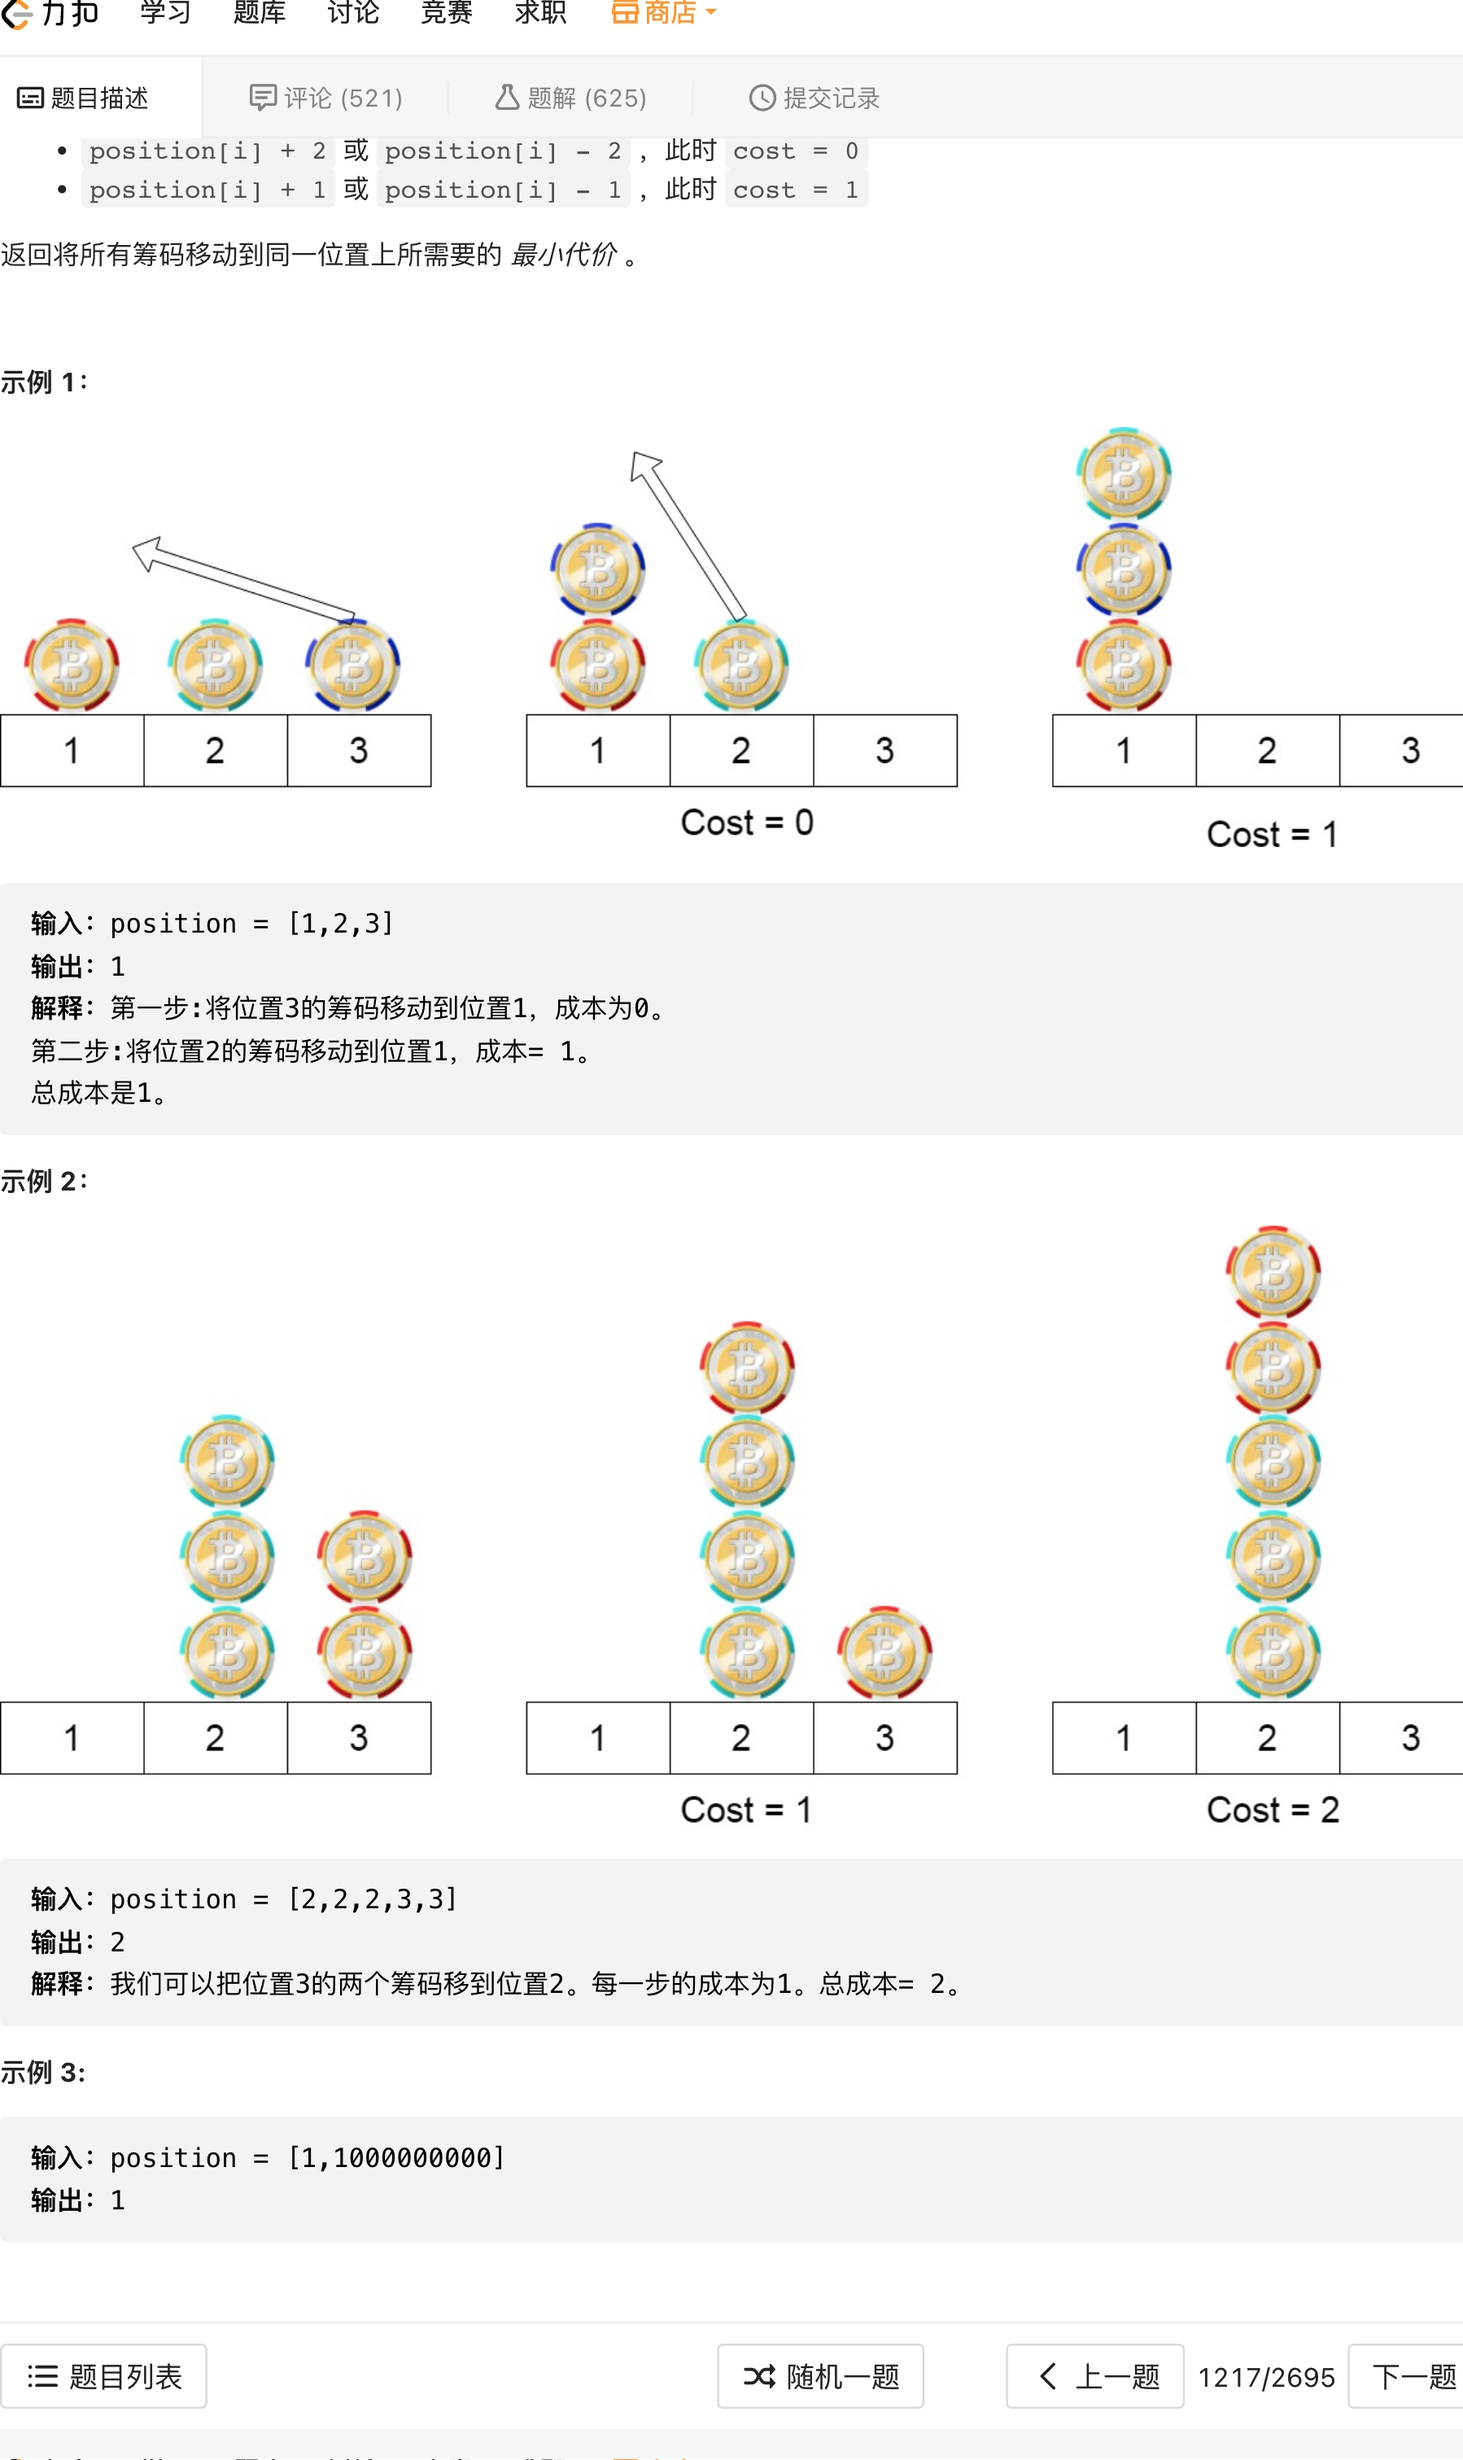
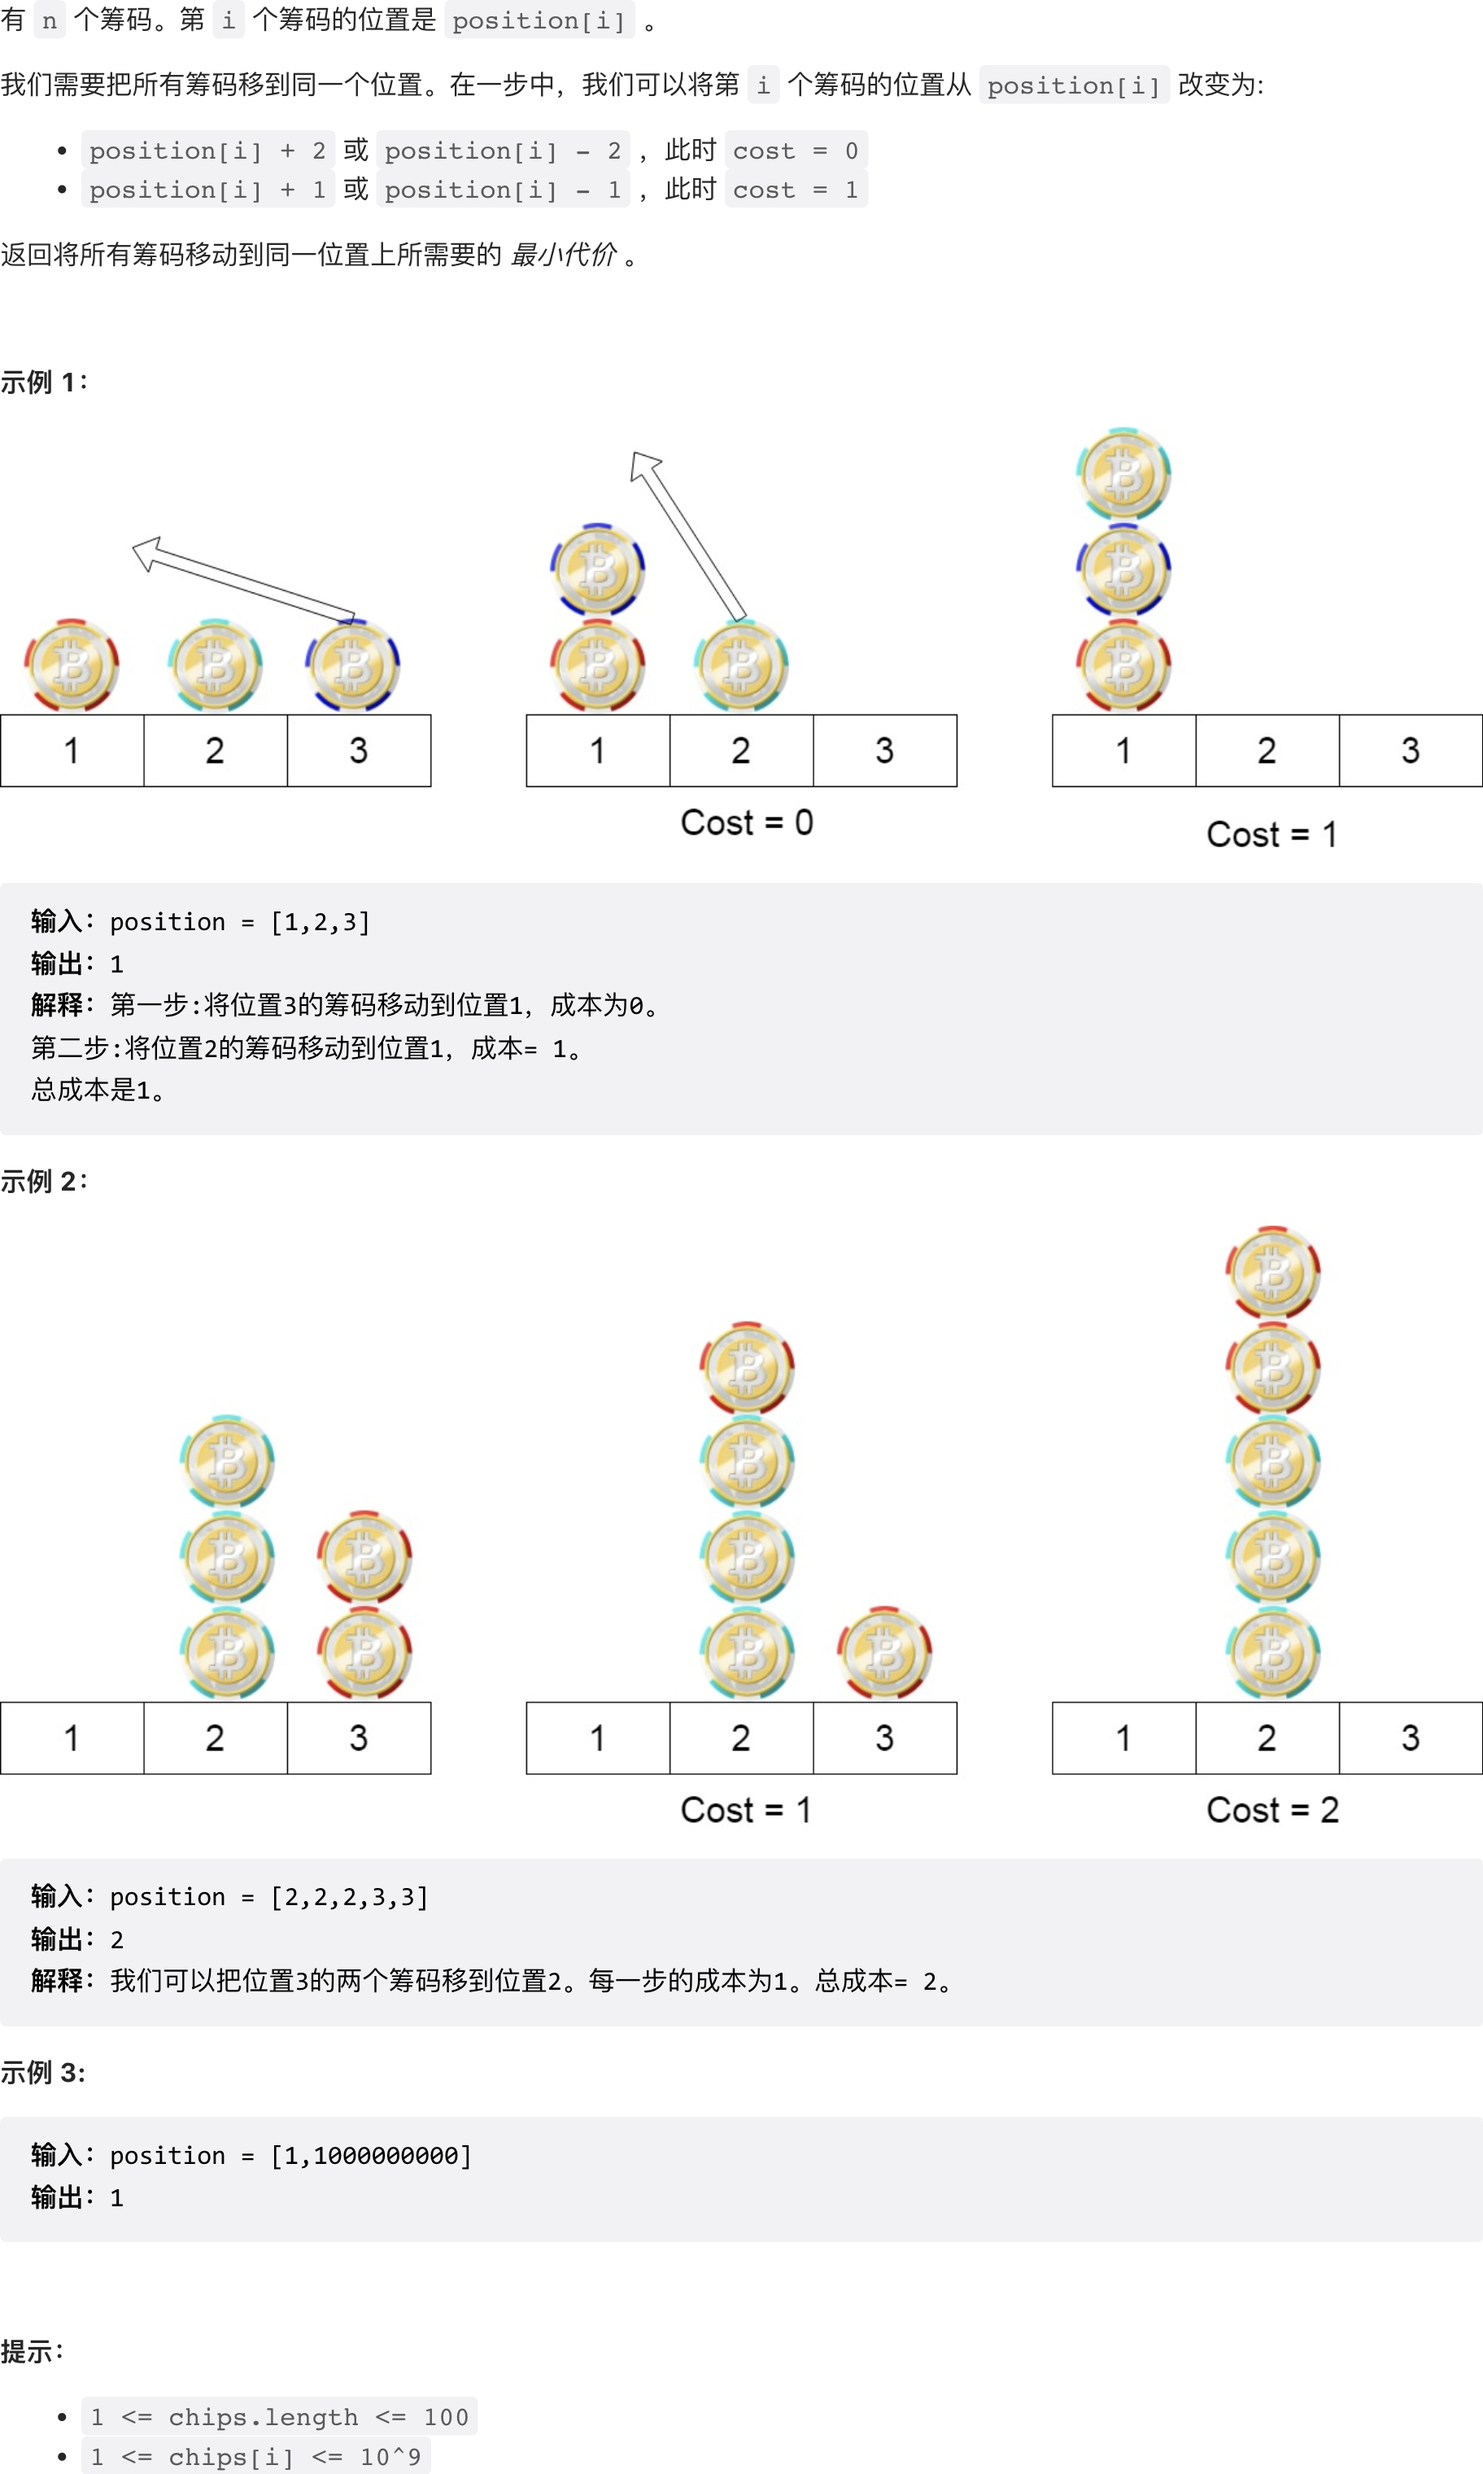
add: 最长的斐波那契子序列的长度

diff --git a/bin/createPractice.ts b/bin/createPractice.ts
@@ -309,7 +309,7 @@ const screenshot = async () => {
     waitUntil: 'networkidle2'
   })
   await screenshotPage.waitForTimeout(1000)
-  await screenshotPage.setViewport({ width: 1920, height: 1080, deviceScaleFactor: 2.5 })
+  await screenshotPage.setViewport({ width: 1920, height: 3000, deviceScaleFactor: 2.5 })
   const desContent = await screenshotPage.$('[class^="content_"')
   await desContent?.screenshot({
     path: imageFilePath,

diff --git a/src/array/length_of_longest_fibonacci_subsequence.cpp b/src/array/length_of_longest_fibonacci_subsequence.cpp
@@ -1,0 +1,41 @@
+// 最长的斐波那契子序列的长度
+// https://leetcode.cn/problems/length-of-longest-fibonacci-subsequence
+// INLINE  ../images/array/length_of_longest_fibonacci_subsequence.jpeg
+// 解题思路：见代码，常规暴力法优化查找时间。
+#include <headers.hpp>
+
+class Solution
+{
+public:
+  int lenLongestFibSubseq(vector<int> &arr)
+  {
+    int maxLen = 0;
+    // 以空间换时间。因为序列已经排好序，因此把所有数值放到Map降低第三个数查找的时间复杂度。
+    unordered_set<int> set; // 如果用二分查找则第三个数是O(log n)，用Set则为O(1)。
+    int len = arr.size();
+    for (int i = 0; i < len; i++)
+    {
+      set.emplace(arr[i]);
+    }
+    for (int i = 0; i < len - 2; i++)
+    {
+      for (int j = i + 1; j < len - 1; j++)
+      {
+        int first = arr[i];
+        int second = arr[j];
+        int third = first + second;
+        int currentLen = 2; // 按题目规定，长度至少为3，如果前两个数已经确定，则长度至少为2。
+        while (set.find(third) != set.end())
+        {
+          currentLen++;
+          first = second;
+          second = third;
+          third = first + second;
+        }
+        maxLen = max(currentLen, maxLen);
+      }
+    }
+
+    return maxLen >= 3 ? maxLen : 0; // 按题目规定，长度至少为3，如果一个不存在，返回0。
+  }
+};

diff --git a/test/array/length_of_longest_fibonacci_subsequence_test.cpp b/test/array/length_of_longest_fibonacci_subsequence_test.cpp
@@ -1,0 +1,19 @@
+#include <array/length_of_longest_fibonacci_subsequence.cpp>
+
+TEST(最长的斐波那契子序列的长度, lenLongestFibSubseq)
+{
+  // 示例 1：
+  // 输入: arr = [1,2,3,4,5,6,7,8]
+  // 输出: 5
+  // 解释: 最长的斐波那契式子序列为 [1,2,3,5,8] 。
+  Solution solution;
+  vector<int> arr = {1, 2, 3, 4, 5, 6, 7, 8};
+  EXPECT_EQ(solution.lenLongestFibSubseq(arr), 5);
+
+  // 示例 2：
+  // 输入: arr = [1,3,7,11,12,14,18]
+  // 输出: 3
+  // 解释: 最长的斐波那契式子序列有 [1,11,12]、[3,11,14] 以及 [7,11,18] 。
+  vector<int> arr2 = {1, 3, 7, 11, 12, 14, 18};
+  EXPECT_EQ(solution.lenLongestFibSubseq(arr2), 3);
+}

diff --git a/README.md b/README.md
@@ -13,21 +13,34 @@ C++ 基础算法、数据结构练习，包含 LeetCode 或其它算法练习记
 
 每一道题都对应写有测试用例，但可能不够完整。如果您发现错误，欢迎给我留言，谢谢！
 
-运行`yarn start`可以自动从LeetCode获取代码函数和用例说明。保存文件后将自动同步到浏览器。
+安装以下测试环境后，运行`yarn start`可以自动从LeetCode获取代码函数和用例说明。保存文件后将自动同步到浏览器。
 
 ## 测试环境
 
 ### MAC
 
 ```bash
-brew install cmake
+brew install cmake node yarn
+
 ```
 
 ### Linux
 
+以Ubuntu 20.04为例，安装LLVM 14：
+
 ```bash
+wget -O - https://apt.llvm.org/llvm-snapshot.gpg.key 2>/dev/null | sudo apt-key add -
+sudo add-apt-repository 'deb http://apt.llvm.org/focal/ llvm-toolchain-focal-14 main' -y
+sudo apt-get update -q
+sudo apt-get install -y clang-14 lld-14 libc++-14-dev libc++abi-14-dev clang-tools-14 lcov
+sudo node bin/ci.cjs
+sudo chmod +x /usr/bin/llvm-gcov.sh
 sudo update-alternatives --config c++
 ```
+
+根据<https://nodejs.org/en/download/package-manager/>安装Node.js环境。根据安装时的提示安装`yarn`。
+
+安装完成后执行`yarn`安装依赖。
 
 ## 基础排序算法
 
@@ -44,6 +57,10 @@ sudo update-alternatives --config c++
 ### 字符串
 
 ### 数组/队列/集合/映射
+
+- [最长的斐波那契子序列的长度](src/array/length_of_longest_fibonacci_subsequence.cpp)  [数组, 哈希表, 动态规划]
+
+  - LeetCode 873. 最长的斐波那契子序列的长度 <https://leetcode.cn/problems/length-of-longest-fibonacci-subsequence>
 
 - [玩筹码](src/array/minimum_cost_to_move_chips_to_the_same_position.cpp)  [贪心, 数组, 数学]
 
